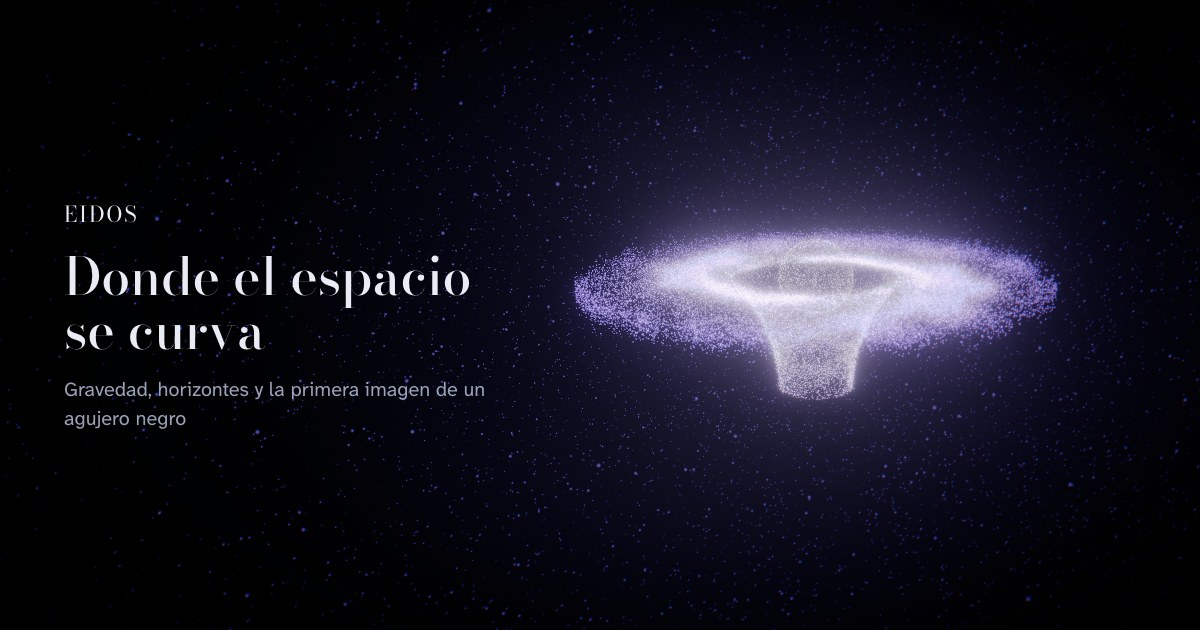
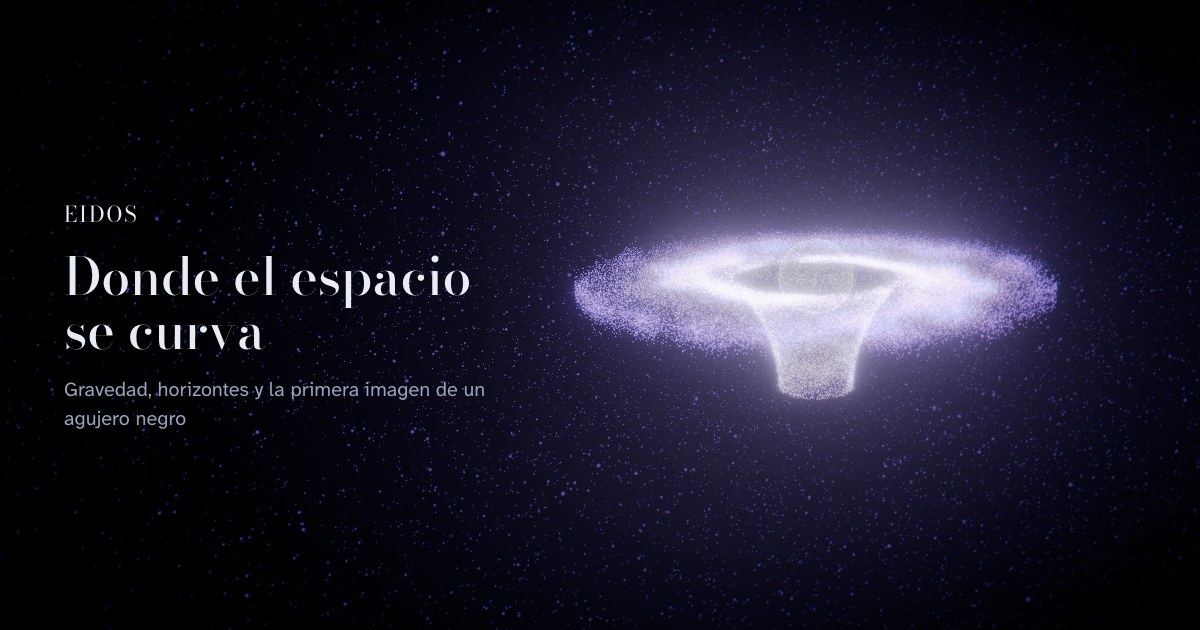
Clean CSP report, no Atlas layout shift, lighter posters on phones
Zod runs jitless so its eval probe no longer trips the policy; the Atlas
gets its demo index from the server, so cards and filters are in the first
HTML; posters gain 480-px variants and the first one loads eagerly. The
poster script retakes frames captured before the stage was ready.

diff --git a/src/components/atlas/AtlasPage.tsx b/src/components/atlas/AtlasPage.tsx
@@ -13,10 +13,11 @@ import { whenStage } from "@/engine/stage/stageRef";
 import { makeLayer, kv } from "@/lib/world/layer";
 
 /** /atlas (spec 3.4): demo + local worlds, filters by level and topic, import a .eidos.json file. */
-export function AtlasPage() {
+export function AtlasPage({ initialDemos = [] }: { initialDemos?: DemoManifestEntry[] }) {
   const { t, locale } = useI18n();
   const router = useRouter();
-  const [demos, setDemos] = useState<DemoManifestEntry[]>([]);
+  const [demos, setDemos] = useState<DemoManifestEntry[]>(initialDemos);
+  const hasInitial = initialDemos.length > 0;
   const [mine, setMine] = useState<WorldSummary[]>([]);
   const [level, setLevel] = useState<Level | "all">("all");
   const [topic, setTopic] = useState<string>("all");
@@ -24,7 +25,7 @@ export function AtlasPage() {
   const input = useRef<HTMLInputElement>(null);
 
   useEffect(() => {
-    void loadDemoManifest().then(setDemos);
+    if (!hasInitial) void loadDemoManifest().then(setDemos);
     void listLocalWorlds().then(setMine);
     void whenStage().then((stage) =>
       stage.loadProgram(
@@ -32,7 +33,7 @@ export function AtlasPage() {
         { cameras: ["orbit_wide"], frames: [0], enterMs: 900 },
       ),
     );
-  }, []);
+  }, [hasInitial]);
 
   const palettes = useMemo(() => Array.from(new Set(demos.map((d) => d.palette))), [demos]);
   const filter = (w: WorldSummary) => (level === "all" || w.level === level) && (topic === "all" || w.palette === topic);

diff --git a/scripts/posters.ts b/scripts/posters.ts
@@ -69,8 +69,16 @@ for (const id of ids) {
   await openBeat(page, id, w.posterBeat);
   await page.addStyleTag({ content: HIDE_UI });
   await page.waitForTimeout(400);
-  const frame = await page.screenshot();
-  await sharp(await cropToForm(frame, 960, 600)).webp({ quality: 82 }).toFile(`public/posters/${id}.webp`);
+  // A frame taken while the stage is still loading comes out black: wait and retake (a few tries at most).
+  let frame = await page.screenshot();
+  for (let tries = 0; tries < 4 && (await sharp(frame).stats()).channels.slice(0, 3).every((c) => c.mean < 6); tries++) {
+    await page.waitForTimeout(2500);
+    frame = await page.screenshot();
+  }
+  const poster = await cropToForm(frame, 960, 600);
+  await sharp(poster).webp({ quality: 82 }).toFile(`public/posters/${id}.webp`);
+  // A 480-px variant for phones (srcset in the Atlas grid).
+  await sharp(poster).resize(480, 300).webp({ quality: 78 }).toFile(`public/posters/${id}-480.webp`);
   await page.close();
 
   // Open Graph: the same beat at 1200 × 630 with the title set in the left column.

diff --git a/src/components/atlas/AtlasGrid.tsx b/src/components/atlas/AtlasGrid.tsx
@@ -23,7 +23,17 @@ export function AtlasGrid({ worlds }: { worlds: (WorldSummary & { poster?: boole
               <div className="atlas-poster" aria-hidden>
                 {w.poster ? (
                   // eslint-disable-next-line @next/next/no-img-element
-                  <img src={`/posters/${w.id}.webp`} alt="" loading="lazy" />
+                  <img
+                    src={`/posters/${w.id}.webp`}
+                    srcSet={`/posters/${w.id}-480.webp 480w, /posters/${w.id}.webp 960w`}
+                    sizes="(max-width: 767px) 100vw, 50vw"
+                    width={960}
+                    height={600}
+                    alt=""
+                    // The first card is the largest thing above the fold: load it at once.
+                    loading={i === 0 ? "eager" : "lazy"}
+                    fetchPriority={i === 0 ? "high" : "auto"}
+                  />
                 ) : (
                   <span className="atlas-poster-glow" />
                 )}

diff --git a/src/app/atlas/page.tsx b/src/app/atlas/page.tsx
@@ -1,8 +1,20 @@
 import type { Metadata } from "next";
+import { readFileSync } from "node:fs";
+import { join } from "node:path";
 import { AtlasPage } from "@/components/atlas/AtlasPage";
+import type { DemoManifestEntry } from "@/lib/storage/worlds";
 
 export const metadata: Metadata = { title: "Atlas" };
 
+/** The demo index is a 4 KB static file: reading it here puts the cards and filters in the first HTML (no shift). */
+function demoIndex(): DemoManifestEntry[] {
+  try {
+    return (JSON.parse(readFileSync(join(process.cwd(), "public/worlds/index.json"), "utf8")) as { worlds: DemoManifestEntry[] }).worlds;
+  } catch {
+    return [];
+  }
+}
+
 export default function Atlas() {
-  return <AtlasPage />;
+  return <AtlasPage initialDemos={demoIndex()} />;
 }

diff --git a/src/lib/zodConfig.ts b/src/lib/zodConfig.ts
@@ -1,0 +1,5 @@
+import { z } from "zod";
+
+// Under our strict CSP, Zod's one-time `new Function("")` probe is reported as a policy violation even though the
+// throw is caught. Jitless mode skips the probe; parsing stays the same, only without code generation.
+z.config({ jitless: true });

diff --git a/src/components/ui/AppShell.tsx b/src/components/ui/AppShell.tsx
@@ -1,5 +1,6 @@
 "use client";
 
+import "@/lib/zodConfig";
 import type { ReactNode } from "react";
 import { useI18n } from "@/lib/i18n/I18nProvider";
 import { StageMount } from "./StageMount";
